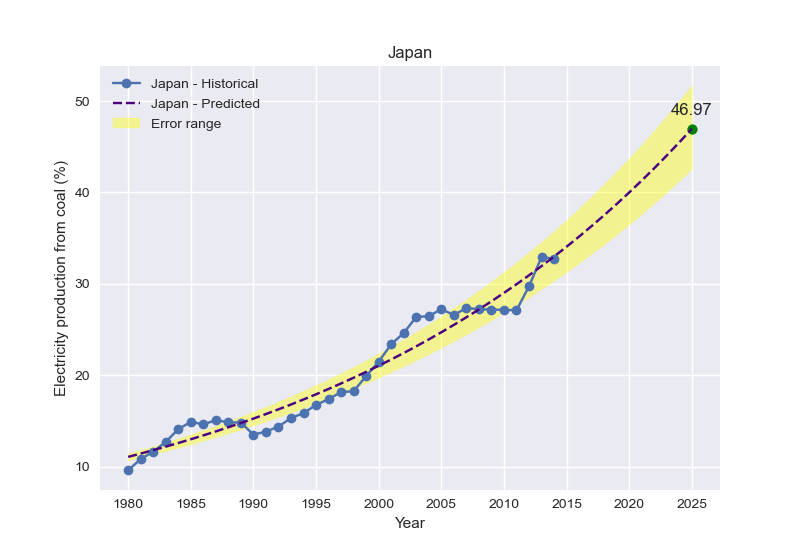
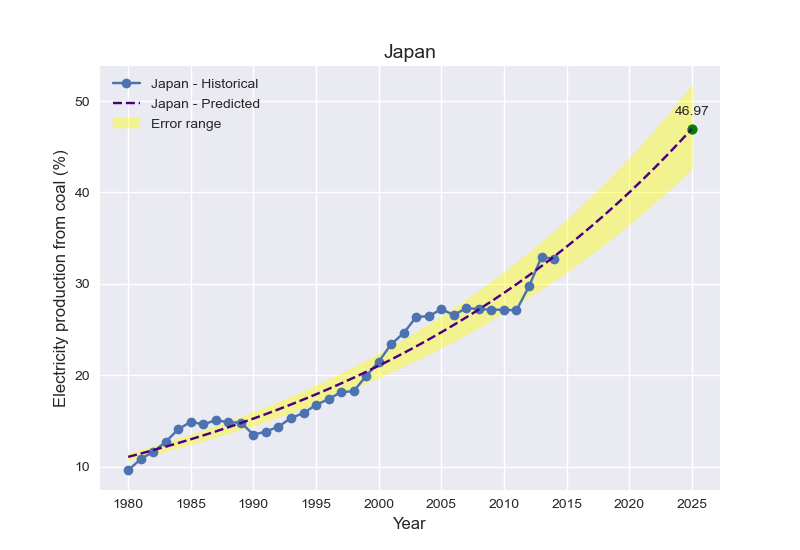
final edit

diff --git a/Clustering&Fitting.py b/Clustering&Fitting.py
@@ -169,7 +169,7 @@ def plot_clustered_data(df, cluster_labels, cluster_centers):
     fig, ax = plt.subplots(figsize=(8, 6))
     # plot the clusters 
     scatter = ax.scatter(df.iloc[:, 0], df.iloc[:, 1],
-                         c=cluster_labels, cmap='viridis')
+                         c=cluster_labels, cmap='winter')
     # plot the cluster centers
     ax.scatter(cluster_centers[:, 0], cluster_centers[:,
                1], s=200, marker='2', c='red')
@@ -181,7 +181,7 @@ def plot_clustered_data(df, cluster_labels, cluster_centers):
     ax.grid(True)
     plt.colorbar(scatter)
     # save the fig
-    # plt.savefig('Clusters.png')
+    plt.savefig('Clusters.png')
     plt.show()
 
 def select_one_country_from_each_cluster(df,cluster_labels, countries):
@@ -328,9 +328,9 @@ def predict_future_values(energy_use_data, countries, indicators, start_year, en
             ax.annotate(f'{point_at_2025:.2f}', (2025, point_at_2025),
                         textcoords="offset points", xytext=(0,10), ha='center')
         # set the labels and title
-        ax.set_xlabel('Year')
-        ax.set_ylabel('Electricity production from coal (%)')
-        ax.set_title(f'{country}')
+        ax.set_xlabel('Year',fontsize=12)
+        ax.set_ylabel('Electricity production from coal (%)',fontsize=12)
+        ax.set_title(f'{country}',fontsize=14)
         ax.set_xticks(np.arange(1980,2026,5)) # set the xticks
         ax.legend(loc='best') #set the legend
         plt.savefig(f'fit_curve_prediction_{country}.png') # save fig
@@ -349,7 +349,7 @@ if __name__ == '__main__':
     #defining the numeric columns
     numeric_columns = normalized_data.columns[1:]
     #getting the optimal number of clusters
-    silhoute_Score(normalized_data[numeric_columns])
+    num_of_Clusters(normalized_data[numeric_columns])
     # defining the number of clusters
     num_clusters = 3
     # perform clustering
